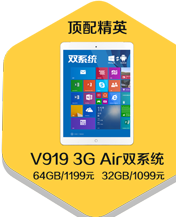
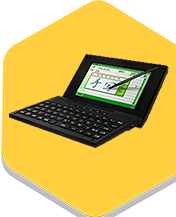
修改图片

diff --git a/index.html b/index.html
@@ -16,37 +16,75 @@
 </head>
 
 <body>
-    <div id="j-panel-loading" class="index-loading" >
+    <div id="j-panel-loading" class="index-loading">
         <div class="loader-wrap">
             <div class="loader loader--spinningDisc"></div>
             <span class="load-percent">1%</span>
             <p class="load-tips">资源加载中</p>
         </div>
     </div>
-
     <div id="j-panel-main" class="main" style="display:none">
-       
         <section class="page page1" style="background-color: #EBEBEB;">
             <div class="page-container">
                 <div class="logo"></div>
                 <div class="gpu android"></div>
                 <div class="gpu windows"></div>
                 <div class="gpu text"></div>
-                <p class="search">搜索“昂达”关注微信帐号</p>
+                <p class="search" style="font-size: 16px;">搜索“szscdzcom”关注微信帐号</p>
                 <div class="arrow"></div>
             </div>
         </section>
         <section class="page page2">
             <div class="page-container">
                 <div class="logo"></div>
-                <div class="title"></div>
-                <div id="j-list" class="list">
-                    <a class="gpu product1" href="product1.html"></a>
-                    <a class="gpu product2" href="product2.html"></a>
-                    <a class="gpu product3" href="product3.html"></a>
-                    <a class="gpu product4" href="product4.html"></a>
+                <div id="j-list-2" class="list list2">
+                    <a class="gpu area1" href="product1.html">
+                        <p class="type type1">SC8800</p>
+                        <p class="title title1">智能同步学习电脑</p>
+                        <img src="images/8800@2x.png" />
+                        <p class="detail">原价598元 / 现价298元</p>
+                    </a>
+                    <a class="gpu area2" href="product2.html">
+                        <p class="type type2">SC9200</p>
+                        <p class="title title2">智能同步学习电脑</p>
+                        <img src="images/9200@2x.png" />
+                        <p class="detail">原价1198元 / 现价438元</p>
+                    </a>
                 </div>
-                <p class="search">搜索“昂达”关注微信帐号</p>
+                <p class="search" style="font-size: 16px;">搜索“szscdzcom”关注微信帐号</p>
+                <div class="arrow"></div>
+            </div>
+        </section>
+        <section class="page page2">
+            <div class="page-container">
+                <div class="logo"></div>
+                <div id="j-list-3" class="list list3">
+                    <a class="gpu area1" href="product1.html">
+                        <p class="type type1">SC8800</p>
+                        <p class="title title1">智能同步学习电脑</p>
+                        <img src="images/8800@2x.png" />
+                        <p class="detail">原价598元 / 现价298元</p>
+                    </a>
+                    <a class="gpu area2" href="product2.html">
+                        <p class="type type2">SC9200</p>
+                        <p class="title title2">智能同步学习电脑</p>
+                        <img src="images/9200@2x.png" />
+                        <p class="detail">原价1198元 / 现价438元</p>
+                    </a>
+                    <a class="gpu area3" href="product3.html">
+                        <p class="type type3">SC9600</p>
+                        <p class="title title3">智能同步学习电脑</p>
+                        <img src="images/9600@2x.png" style="height: 197px; top: 20px;" />
+                        <p class="detail">原价898元 / 现价368元</p>
+                    </a>
+                    <a class="gpu area4" href="product4.html">
+                        <p class="type type4">SC9500</p>
+                        <p class="title title4">智能同步学习电脑</p>
+                        <img src="images/9500@2x.png" />
+                        <p class="detail">原价898元 / 现价338元</p>
+                    </a>
+                </div>
+                <p class="search" style="font-size: 16px;">搜索“szscdzcom”关注微信帐号</p>
             </div>
         </section>
     </div>
@@ -55,9 +93,7 @@
     <script type="text/javascript" src="js/jquery.js"></script>
     <script type="text/javascript" src="js/sea.js?v=1.1"></script>
     <script type="text/javascript" src="js/main.js?v=1.1"></script>
-	<script type="text/javascript" src="js/weixinshare.js"></script>
-
-    
+    <script type="text/javascript" src="js/weixinshare.js"></script>
 </body>
 
 </html>

diff --git a/css/style.css b/css/style.css
@@ -156,7 +156,7 @@ html {
 }
 .search {
 	position: absolute;
-	width: 200px;
+	width: 220px;
 	text-align: center;
 	color: #fff;
 	font-size: 11px;
@@ -234,14 +234,7 @@ html {
 }.page2 {
 	background-image: url(../images/bg2.png)
 }
-.title {
-	position: absolute;
-	background-image: url(../images/title.png);
-	width: 179px;
-	height: 72px;
-	top: 0;
-	right: 0
-}
+
 .list {
 	position: absolute;
 	width: 320px;
@@ -257,25 +250,38 @@ html {
 	display: block;
 	margin-top: 600px;
 }
-.product1 {
-	background-image: url(../images/index-product1.png);
-	z-index: 20;
+
+.list2 .area1 {
+    background-image: url(../images/area1@2x.png);
+    left: 72px;
+    z-index: 20;
 }
-.product2 {
-	background-image: url(../images/index-product2.png);
-	left: 144px;
-	z-index: 10;
+.list2 .area2 {
+    background-image: url(../images/area2@2x.png);
+    left: 72px;
+    top: 220px;
+    z-index: 10;
 }
-.product3 {
-	background-image: url(../images/index-product3.png);
-	top: 184px;
-	z-index: 30;
+
+.list3 .area1 {
+    background-image: url(../images/area1@2x.png);
+    z-index: 20;
 }
-.product4 {
-	background-image: url(../images/index-product4.png);
-	left: 144px;
-	top: 184px;
-	z-index: 40;
+.list3 .area2 {
+    background-image: url(../images/area2@2x.png);
+    left: 144px;
+    z-index: 10;
+}
+.list3 .area3 {
+    background-image: url(../images/area3@2x.png);
+    top: 184px;
+    z-index: 30;
+}
+.list3 .area4 {
+    background-image: url(../images/area4@2x.png);
+    left: 144px;
+    top: 184px;
+    z-index: 40;
 }
 .list-animate {
 	animation: showList 1.2s ease-out forwards;
@@ -298,13 +304,62 @@ html {
 	.page2 {
 	background-image: url(../images/bg2@2x.png)
 }
-.title {
-	background-image: url(../images/title@2x.png);
-	background-size: 179px 72px;
+.type, .title {
+	font-size: 14px;
+    color: #000000;
+    position: absolute;
 }
+.type1, .type3{
+    left: 55px;
+    top: 15px;
+}
+
+.type2, .type4{
+    left: 70px;
+    top: 15px;
+}
+
+.title1, .title3{
+    left: 24px;
+    top: 30px;
+}
+.title2, .title4{
+    left: 35px;
+    top: 30px;
+}
+
+.detail{
+    font-size: 10px;
+    color: #000000;
+    position: absolute;
+    top: 168px;
+}
+
+.area1 .detail, .area3 .detail{
+    left: 22px;
+}
+.area2 .detail, .area4 .detail{
+    left: 35px;
+}
+
+
 .list a {
 	background-size: 176px 217px;
+    display: block;
 }
+.list a img{
+    width: 176px;
+    height: 217px;
+    position: absolute;
+    left: 0;
+    top: 0;
+}
+
+
+.area3 img{
+    top: 20px;
+}
+
 .product1 {
 	background-image: url(../images/index-product1@2x.png);
 }

diff --git a/js/main.js b/js/main.js
@@ -5,7 +5,8 @@ var PageMain = {
 
     preloadImg: function() {
         var self = this;
-        var images = self.imgArr;
+        // var images = self.imgArr;
+        var images = [];
         var imgLen = images.length;
         if (window.devicePixelRatio >= 1.25) {
             for (var i = 0; i < imgLen; i++) {
@@ -17,16 +18,16 @@ var PageMain = {
         // console.log(self.imgArr)
 
         seajs.use('./js/imageLoader.js', function(loader) {
-            loader(images, function(percent) {
+            // loader(images, function(percent) {
 
                 //加载完一张图片之后的回调函数
-                $('.load-percent').text(Math.floor(percent * 100) + '%');
-                if (percent == 1) {
+                // $('.load-percent').text(Math.floor(percent * 100) + '%');
+                // if (percent == 1) {
                     //加载完所有图片之后
                     self.initPageScroll();
                     self.initPageOne();
-                }
-            });
+                // }
+            // });
 
         });
 
@@ -57,6 +58,9 @@ var PageMain = {
                             case 1:
                                 self.initPageTwo();
                                 break;
+                            case 2:
+                                self.initPageThree();
+                                break;
                             default:
                                 self.initPageOne();
                                 break;
@@ -84,7 +88,23 @@ var PageMain = {
         $(".android").removeClass("android-animate");
         $(".windows").removeClass("windows-animate");
         $(".text").removeClass("text-animate");
-        $("#j-list").children().each(function(index) {
+        $(".list").children().removeClass("list-animate");
+        $("#j-list-2").children().each(function(index) {
+            var $ele = $(this);
+            $ele.css({
+                'animation-delay': '0.' + 3 * index + 's',
+                '-webkit-animation-delay': '0.' + 3 * index + 's'
+            });
+            $ele.addClass("list-animate");
+        });
+    },
+
+     initPageThree: function() {
+        $(".android").removeClass("android-animate");
+        $(".windows").removeClass("windows-animate");
+        $(".text").removeClass("text-animate");
+        $(".list").children().removeClass("list-animate");
+        $("#j-list-3").children().each(function(index) {
             var $ele = $(this);
             $ele.css({
                 'animation-delay': '0.' + 3 * index + 's',
